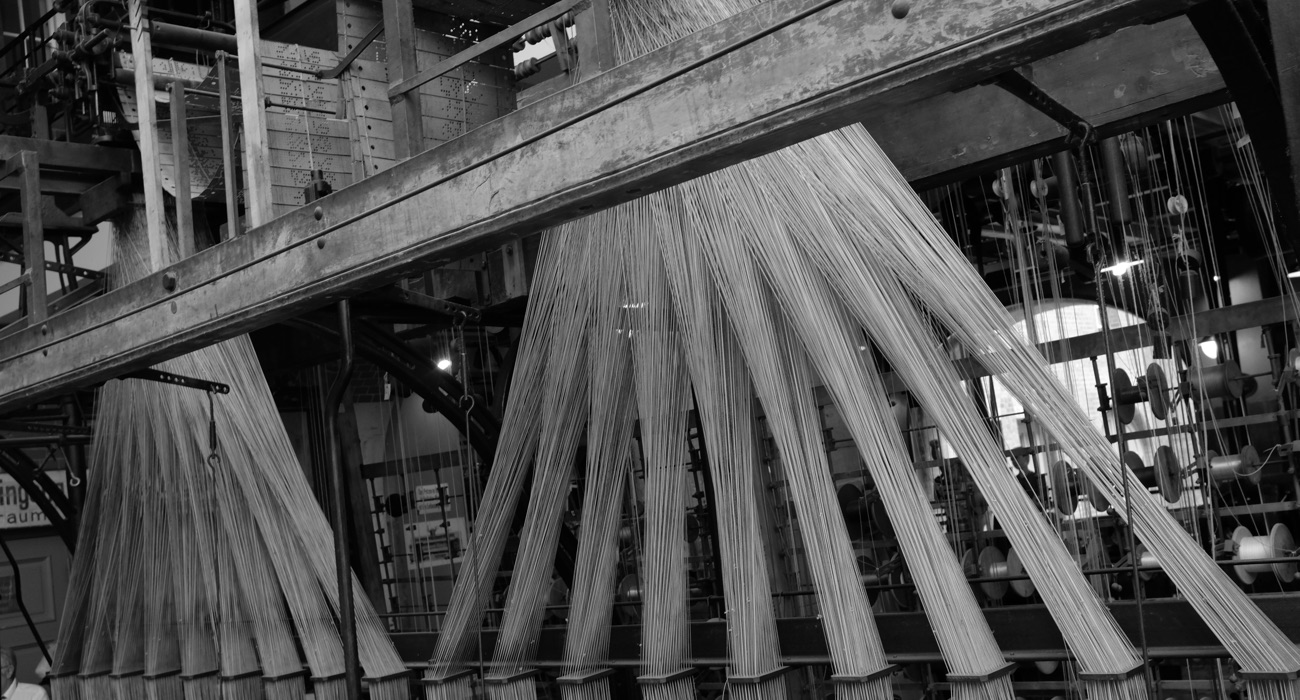
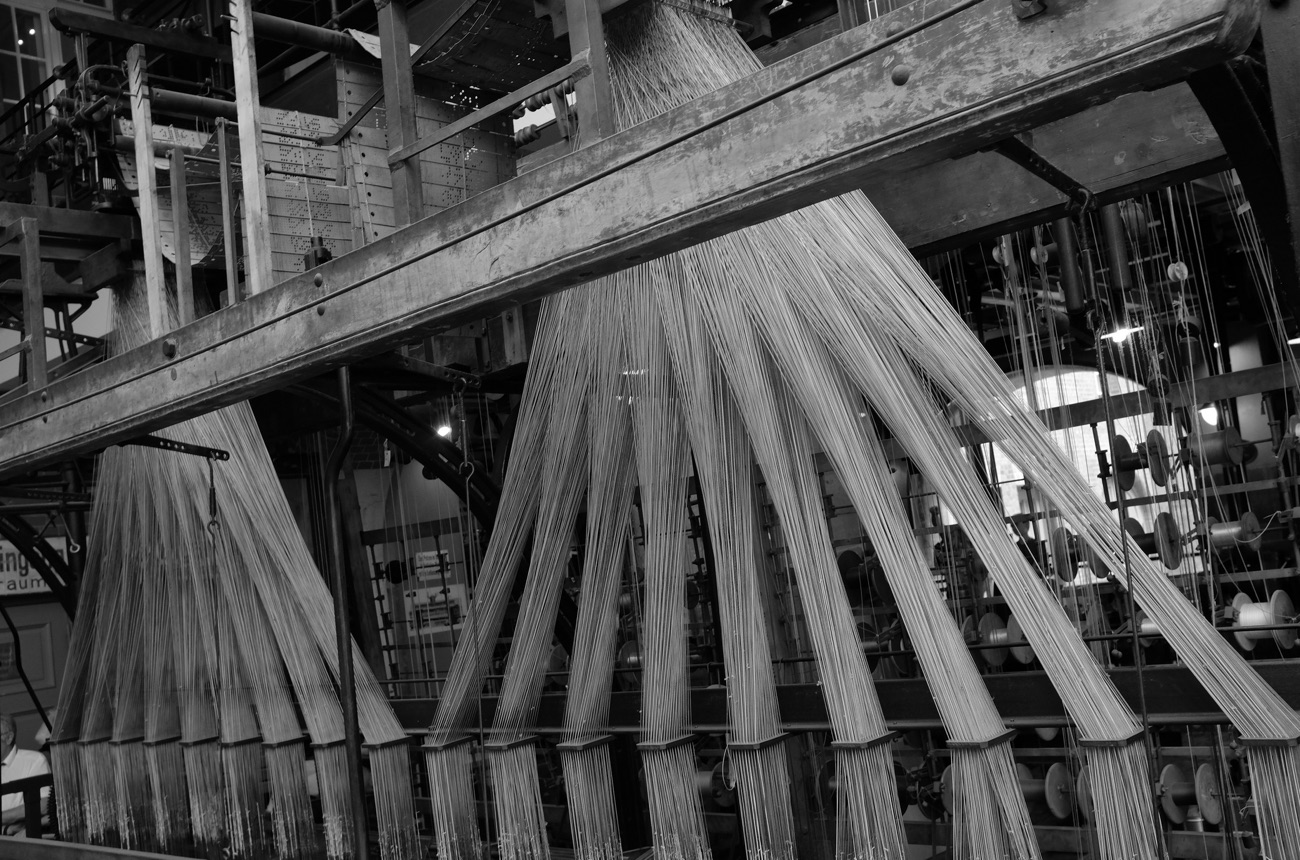
Make images taller
Former-commit-id: 31bb80ddd90ef392f24f82b256f27292565f226e

diff --git a/content/images/ruby-scale/knot.md b/content/images/ruby-scale/knot.md
@@ -1,0 +1,1 @@
+https://www.flickr.com/photos/jeremybrooks/11630879226/

diff --git a/content/images/ruby-scale/tooling.md b/content/images/ruby-scale/tooling.md
@@ -1,0 +1,1 @@
+https://www.flickr.com/photos/brandurleach/14266613992/
